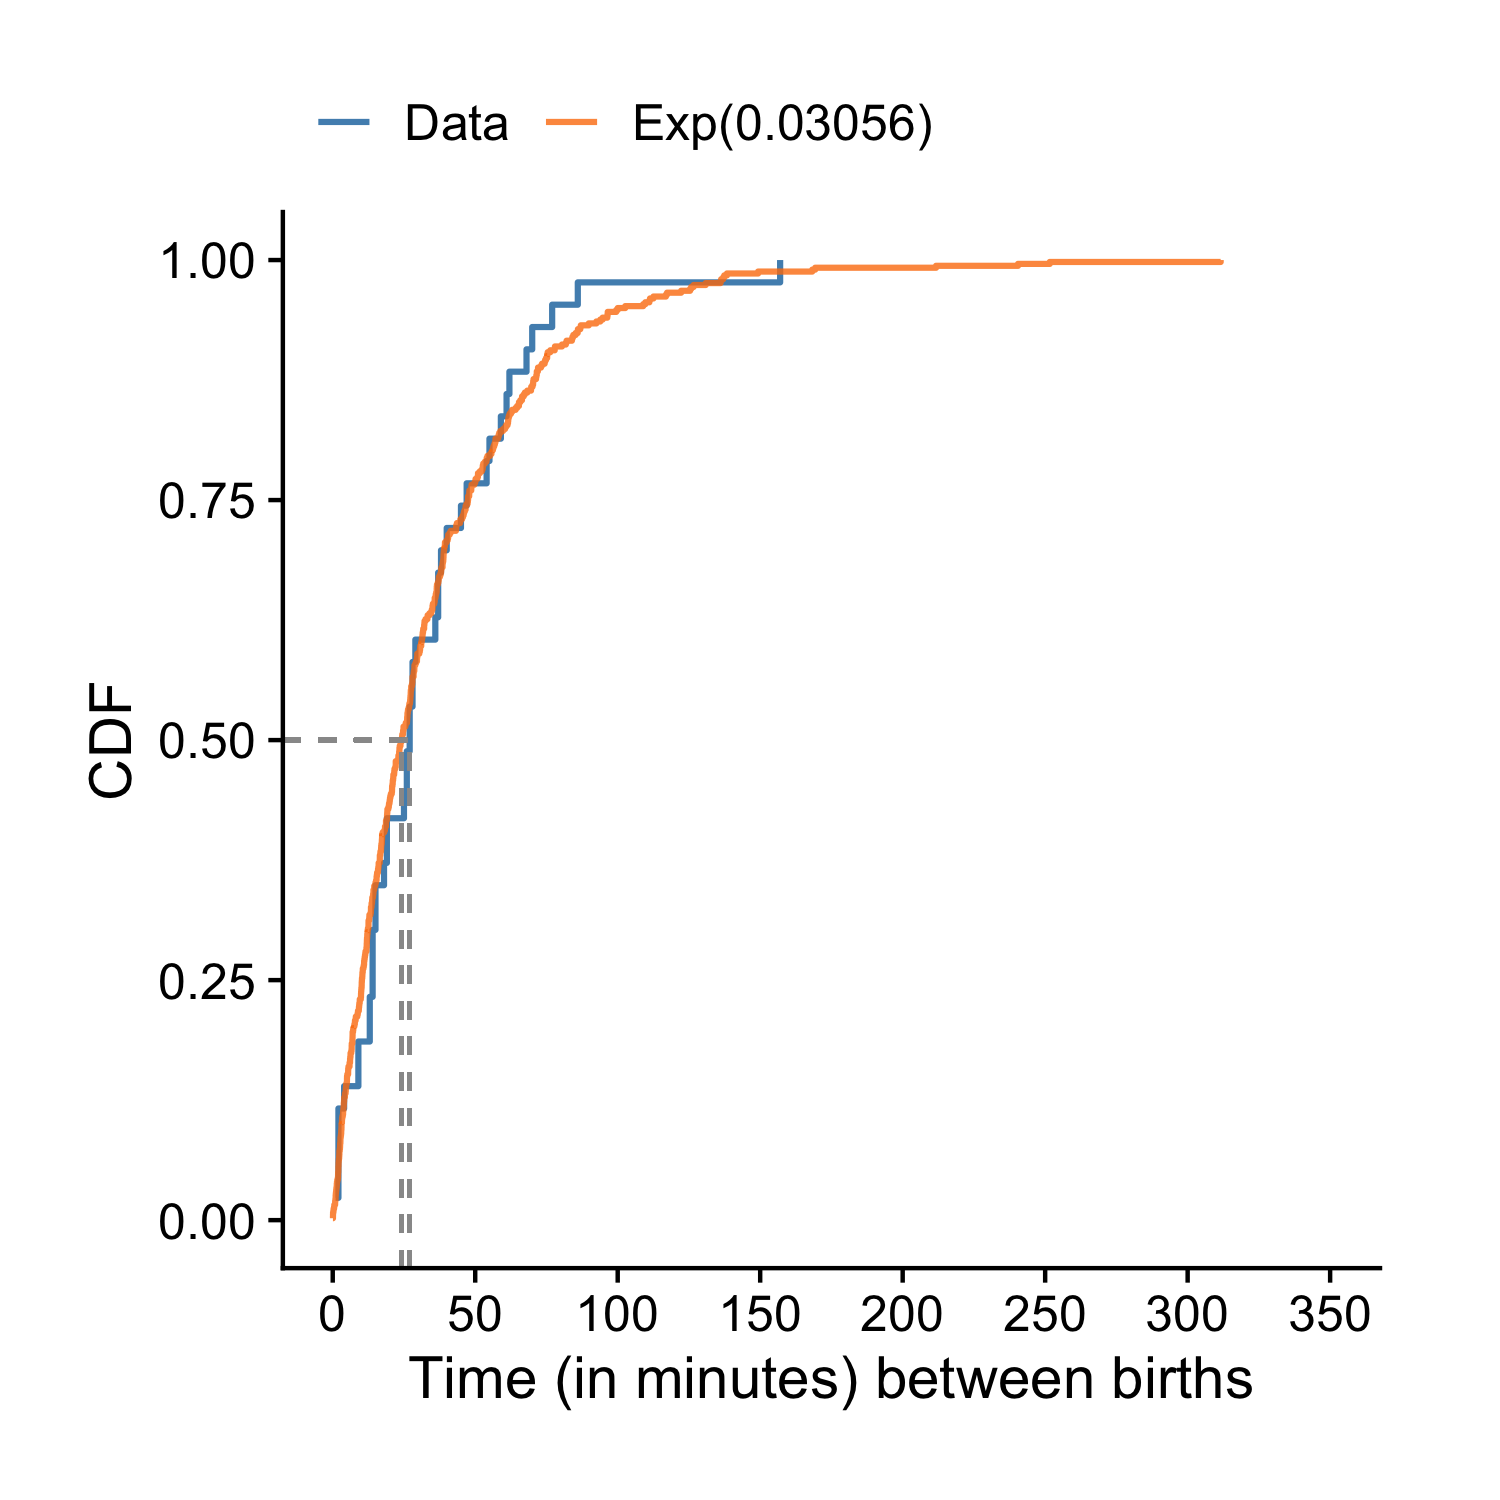
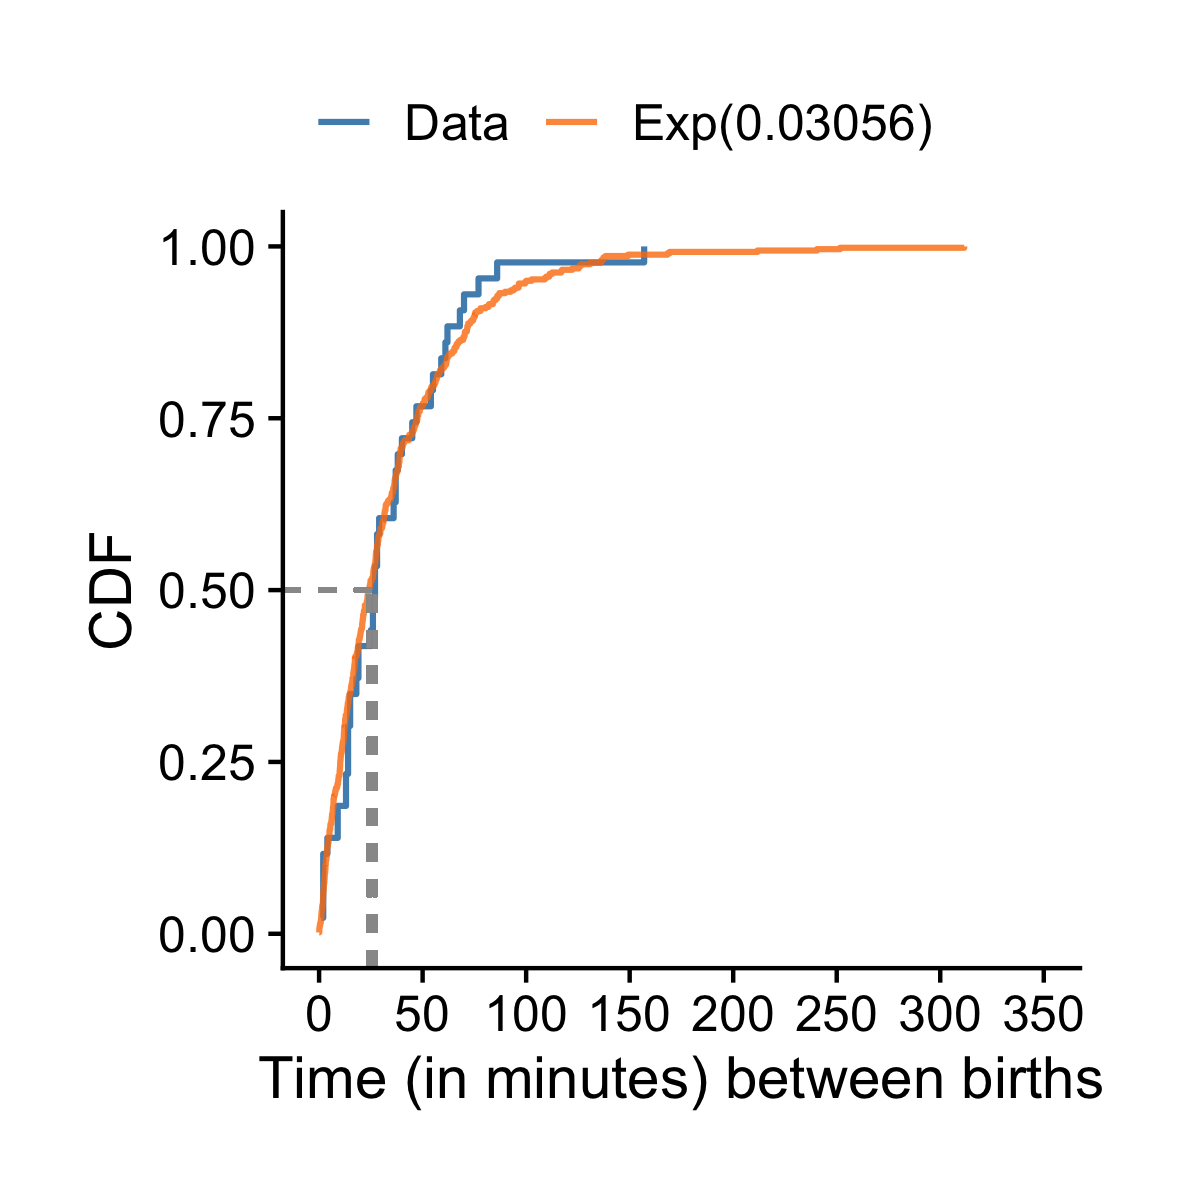
no message

Changed region(s): [[0.0617, 0.1542, 0.925, 0.9558], [0.3083, 0.1542, 0.8017, 0.37], [0.2158, 0.0617, 0.8017, 0.1233]]

diff --git a/manuscript/02-04-cdfplot.md b/manuscript/02-04-cdfplot.md
@@ -10,8 +10,9 @@ set.seed(123923)
 df = rbind(data.frame(x = rnorm(100), type = 'Norm(0, 1)'),
            data.frame(x = rt(100, df = 3), type = 't(3)'))
 plt = mk_cdfplot(df)
-plt('x', colorby='type', add_vline_median = TRUE, legend_title = NULL,
-    pad = FALSE)
+plt('x', colorby='type', add_vline_median = TRUE, 
+    legend_title = NULL, legend_pos = 'top', pad = FALSE) %>% 
+        square_fig()
 ```
 
 ![](images/cdfplot_simu-1.png)
